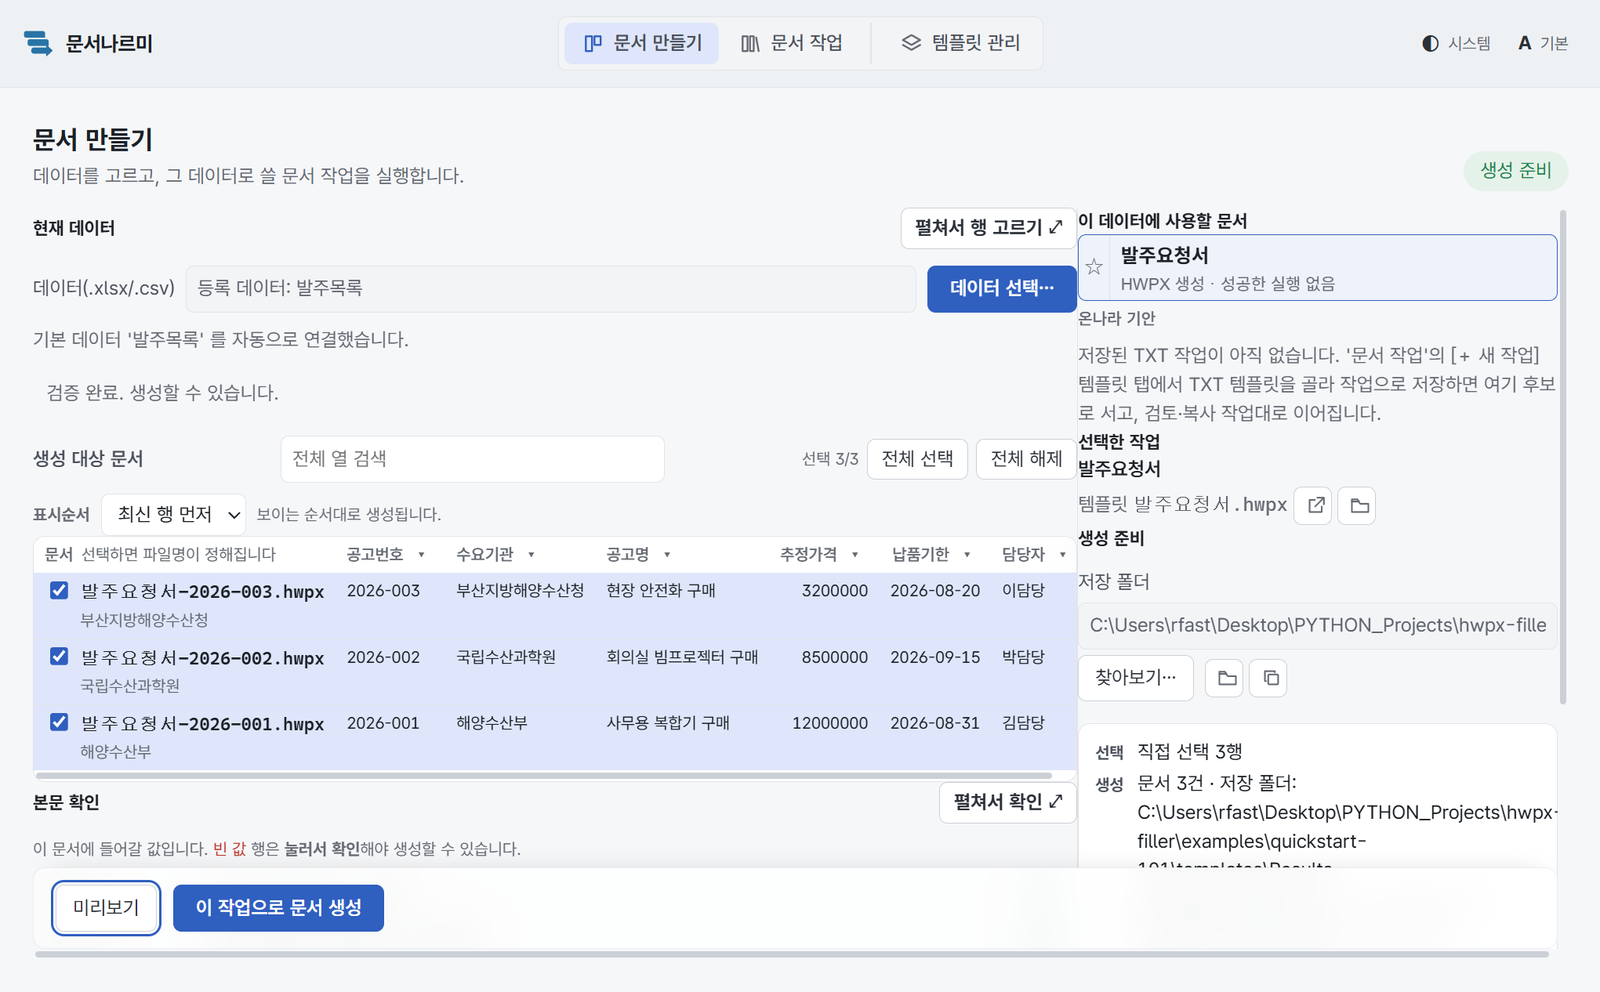
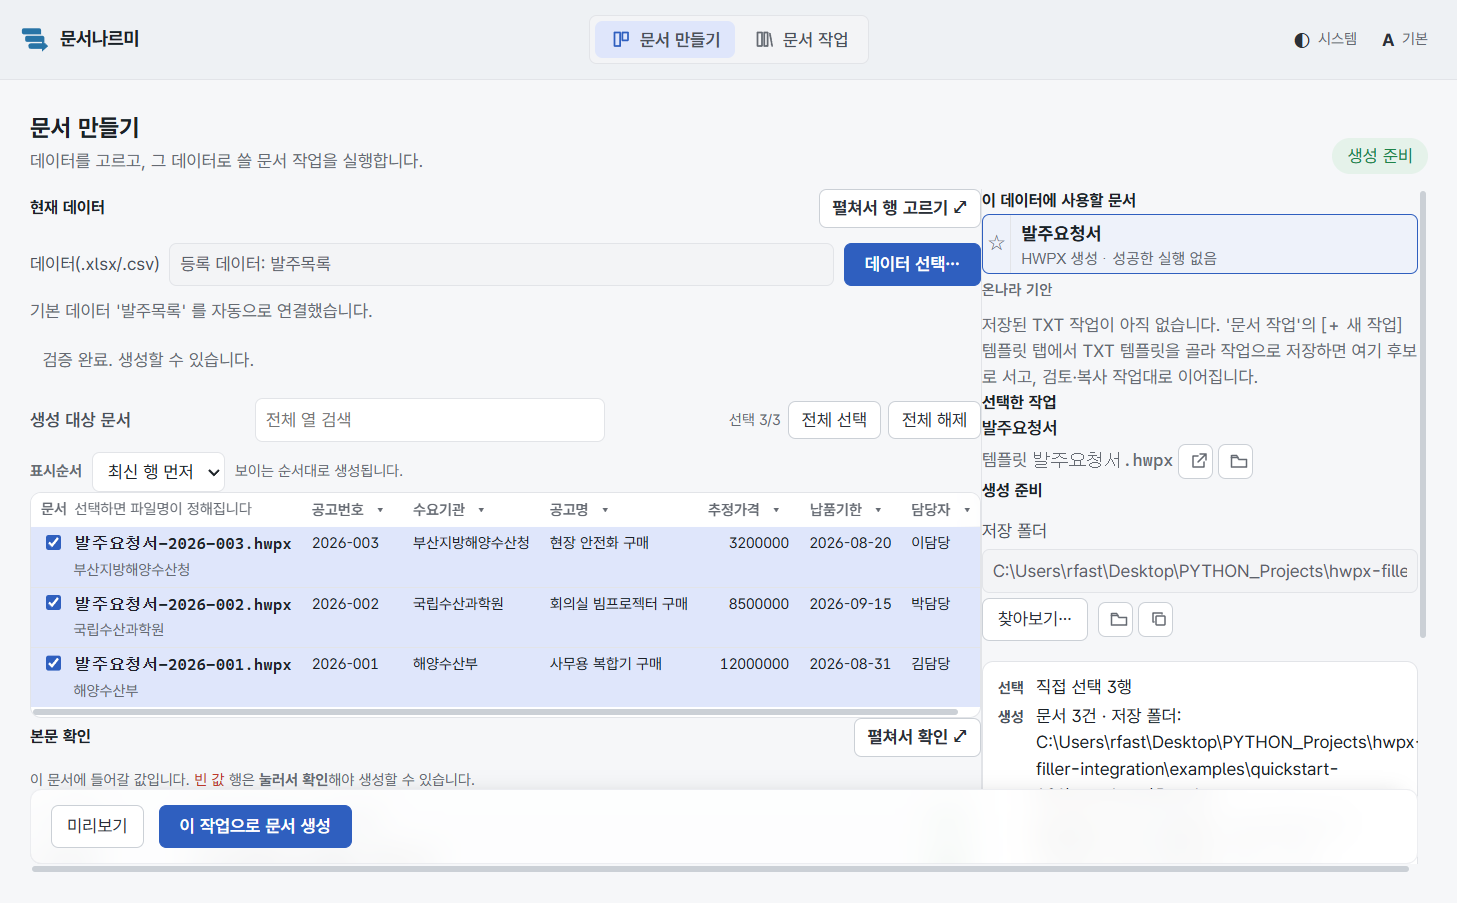
docs+fix: F8 — 101 하니스 14컷 재촬영(2탭 최종 형상) + 행 ⋮ 호버 노출 회수
- 101 자동 캡처 하니스 완주(§10.9.5 완료 조건) — 전 컷이 계약 2탭 상단바로 갱신,
  트랙 A·B 실 렌더 완주(실 클릭·실 dispatch·실 생성·실 클립보드)
- 눈검증 회수 1건: .job-more 는 기본 hidden 인데 .libselrow 계열에 호버 노출 규칙이
  없어 편집기 행 ⋮ 가 영영 은닉 — 프로브의 프로그램적 click 은 hidden 을 통과해 못
  잡는다(F2 PR-B 1R 「실물이 없던 자리」 동류). 노출 규칙 + 정적 가드 추가

Claude-Session: https://claude.ai/code/session_01NoUwwSsgKSnVYpDc34YMGM

diff --git a/web/css/app.css b/web/css/app.css
@@ -817,7 +817,10 @@ body.resizing-master{cursor:col-resize;user-select:none}
 .job-more{flex:none;border:0;background:none;font:inherit;font-size:var(--fs-body);cursor:pointer;
   color:var(--a-muted);padding:var(--sp-2) var(--sp-6);border-radius:var(--rad-control);visibility:hidden}
 .job-row:hover .job-more,.job-row:focus-within .job-more,
-.job-grp:hover .grp-more,.job-grp:focus-within .grp-more{visibility:visible}
+.job-grp:hover .grp-more,.job-grp:focus-within .grp-more,
+/* 편집기 「템플릿」 탭 행 ⋮(F8 승계) — 노출 규칙이 없으면 기본 hidden 이라 영영 안 보인다
+   (101 컷 눈검증이 잡음: 프로브의 프로그램적 click 은 hidden 을 통과한다). */
+.libselrow:hover .job-more,.libselrow:focus-within .job-more{visibility:visible}
 .job-more:hover{background:var(--n-hover);color:var(--a-ink)}
 .job-grp{display:flex;align-items:center;min-width:0;margin-top:var(--sp-6)}
 .job-grp-head{flex:1;min-width:0;display:flex;align-items:center;gap:var(--sp-6);border:0;background:none;

diff --git a/tests/test_web_dom_contract.py b/tests/test_web_dom_contract.py
@@ -1169,6 +1169,12 @@ def test_template_media_sunken_surface_is_retired_with_the_screen():
         assert dead not in html, f"죽은 tpl 표면 DOM 이 되살아났습니다: {dead}"
     for dead in (".tpl-medium{", ".tpl-band{", ".tpl-libbar{", ".tpl-catalogs{"):
         assert dead not in css, f"죽은 tpl 표면 CSS 가 되살아났습니다: {dead}"
+    # 승계 표면의 ⋮ 노출 배선 — .job-more 는 기본 hidden 이라 행 계열마다 호버·포커스 노출
+    # 규칙이 있어야 실물이 보인다(101 눈검증 회수분: 프로브의 프로그램적 click 은 hidden 을
+    # 통과해 은닉을 못 잡는다 — F2 PR-B 1R 「실물이 없던 자리」와 같은 부류).
+    assert ".libselrow:hover.job-more,.libselrow:focus-within.job-more{visibility:visible}" in css, (
+        "편집기 「템플릿」 탭 행 ⋮ 의 호버 노출 규칙이 없습니다 — 관리 동사가 영영 은닉됩니다."
+    )
 
 
 def test_card_families_share_hover_and_keep_persistent_state_separate():
